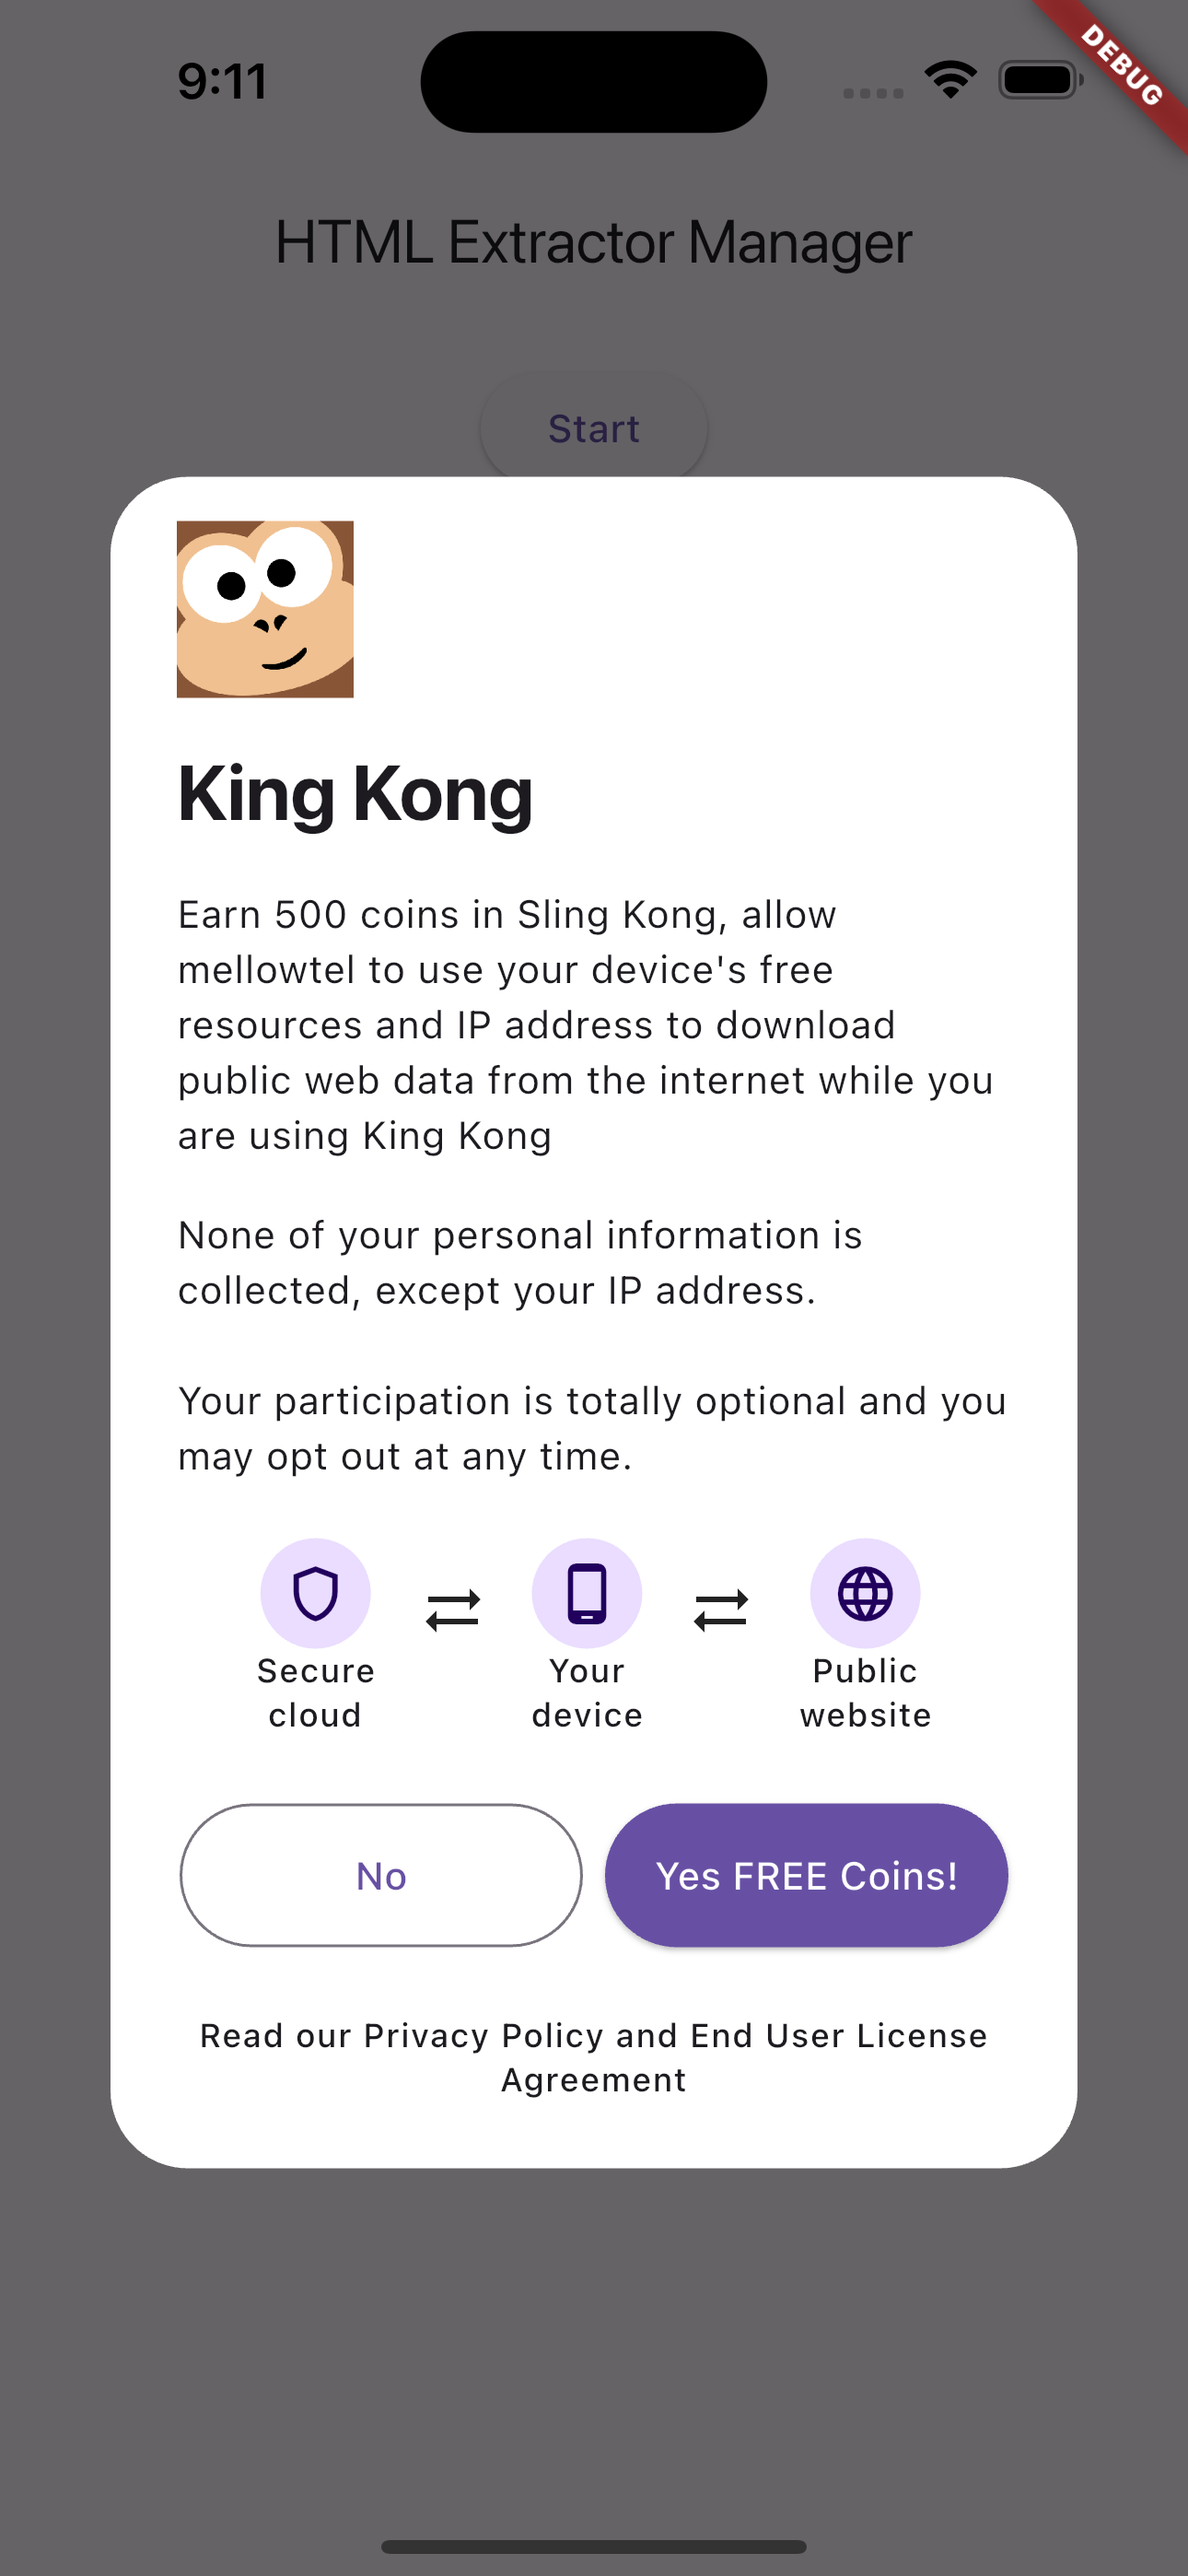
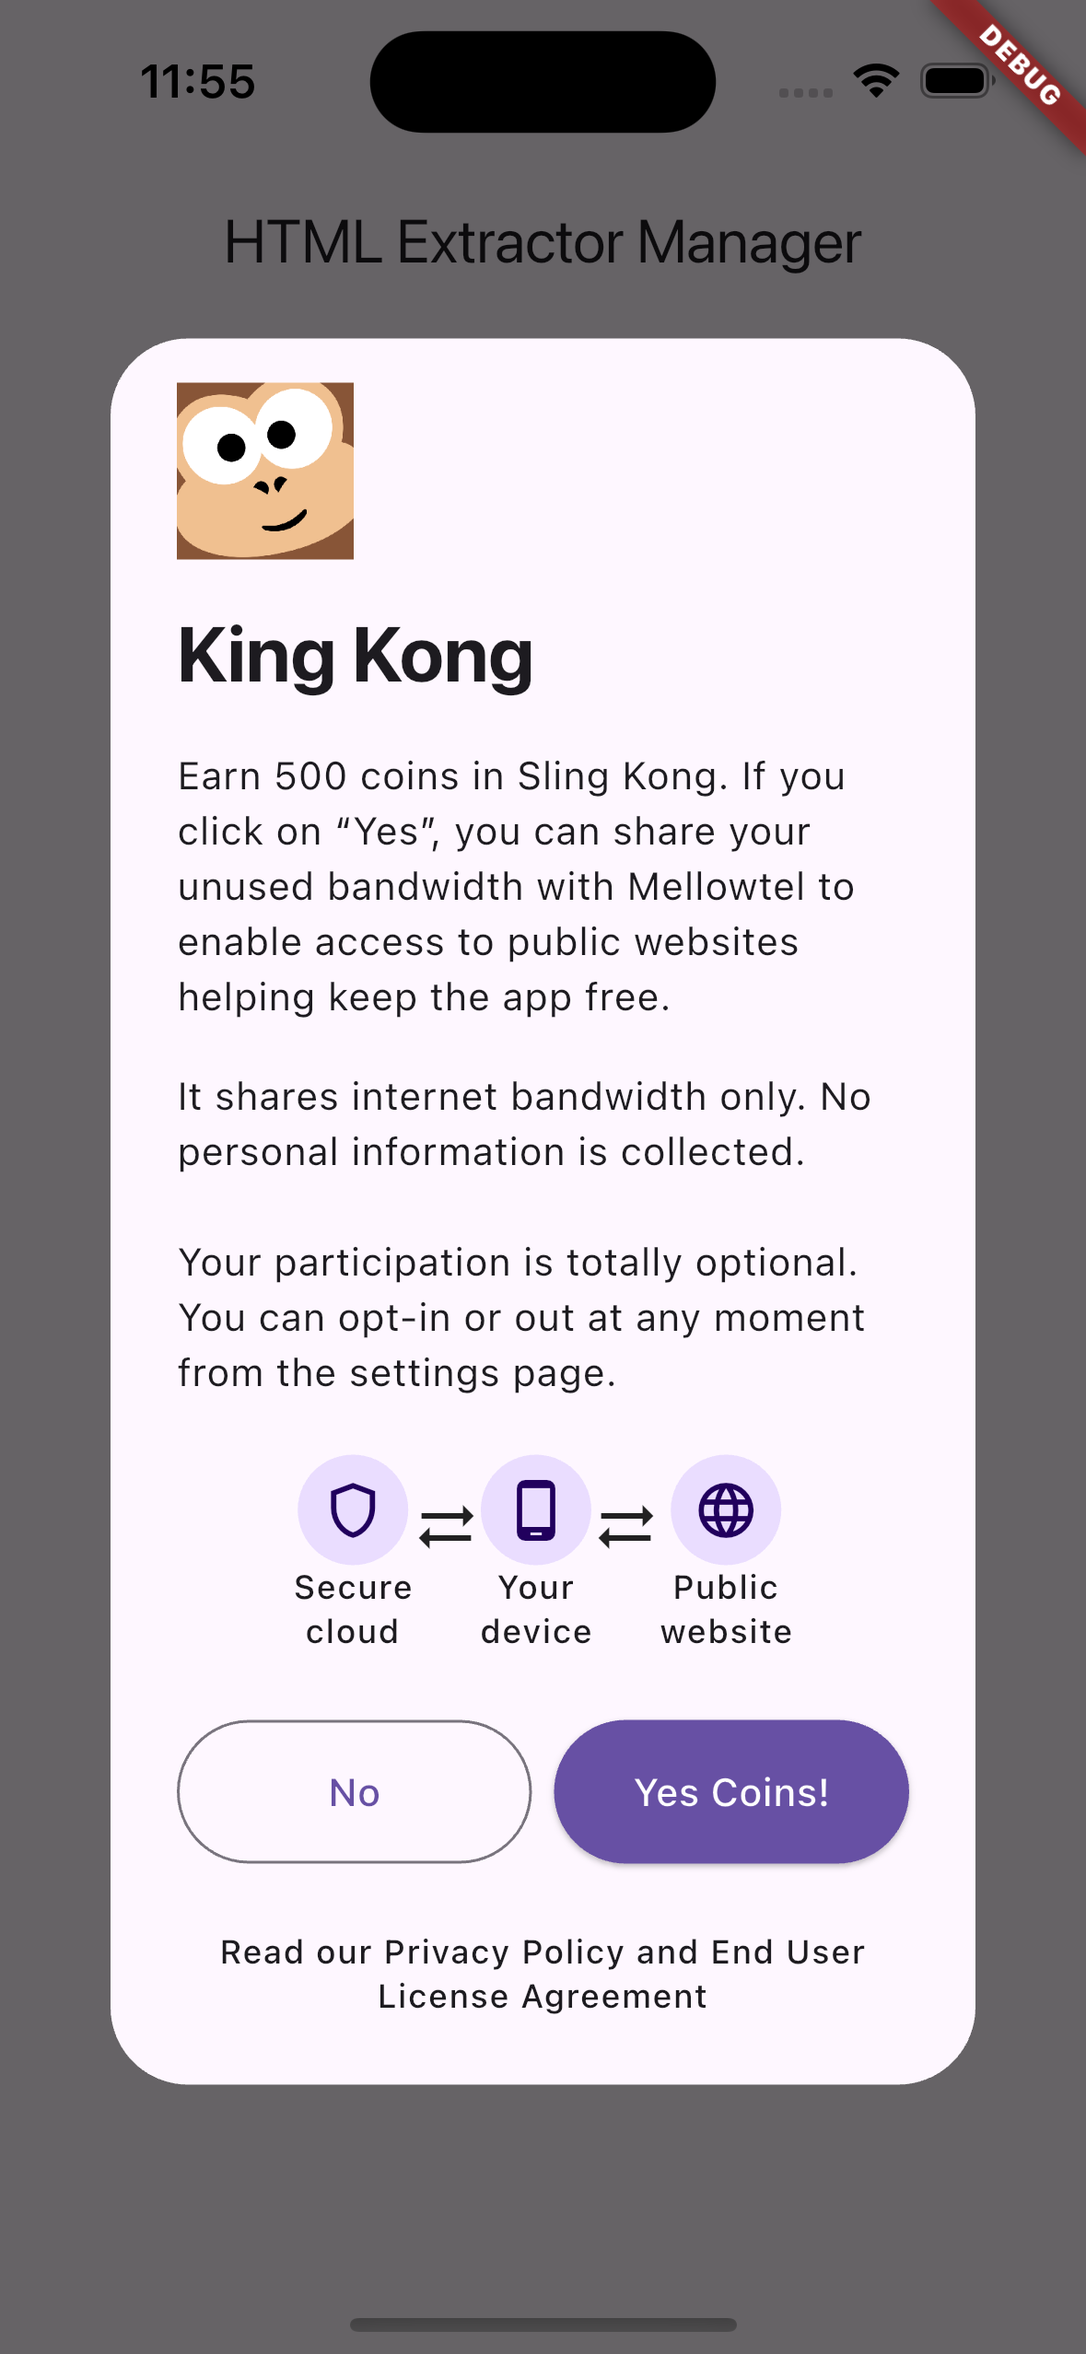
(feat): 0.0.4

diff --git a/example/lib/main.dart b/example/lib/main.dart
@@ -34,7 +34,7 @@ class HtmlExtractorWidgetState extends State<HtmlExtractorWidget> {
       appName: 'King Kong',
       appIcon: 'asset/logo.png',
       incentive: 'Earn 500 coins in Sling Kong',
-      yesText: 'FREE Coins!',
+      yesText: 'Coins!',
       showDebugLogs: true);
 
   @override

diff --git a/README.md b/README.md
@@ -56,7 +56,7 @@ await mellowtel.start(
 
 This will open up a one-time consent popup for the user to accept.
 
-<img src = 'assets/consent-popup.png' width = 300px></img>
+<img src = 'https://raw.githubusercontent.com/mellowtel-inc/mellowtel-flutter/main/assets/consent-popup.png' width = 300px></img>
 
 > You can change `showConsentDialog` param to false to ask for consent manually or in a differnt page after a successful user interaction.
 
@@ -76,7 +76,7 @@ await mellowtel.showConsentSettingsPage(
   );
 ```
 
-<img src = 'assets/settings-popup.png' width = 300px></img>
+<img src = 'https://raw.githubusercontent.com/mellowtel-inc/mellowtel-flutter/main/assets/settings-popup.png' width = 300px></img>
 
 
 

diff --git a/CHANGELOG.md b/CHANGELOG.md
@@ -1,3 +1,7 @@
+## 0.0.4
+
+* Consent Dialog Copywriting Improvements
+
 ## 0.0.3
 
 * Bug fixes
